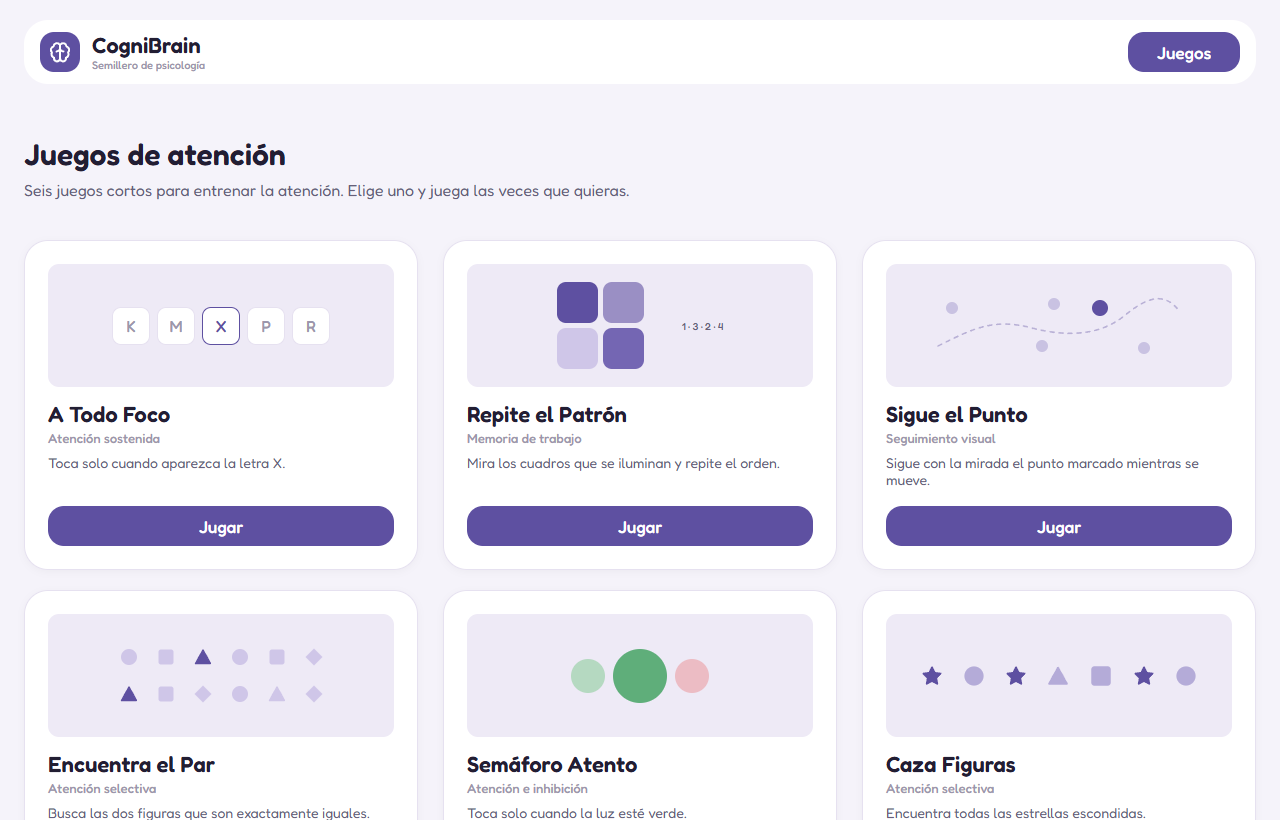
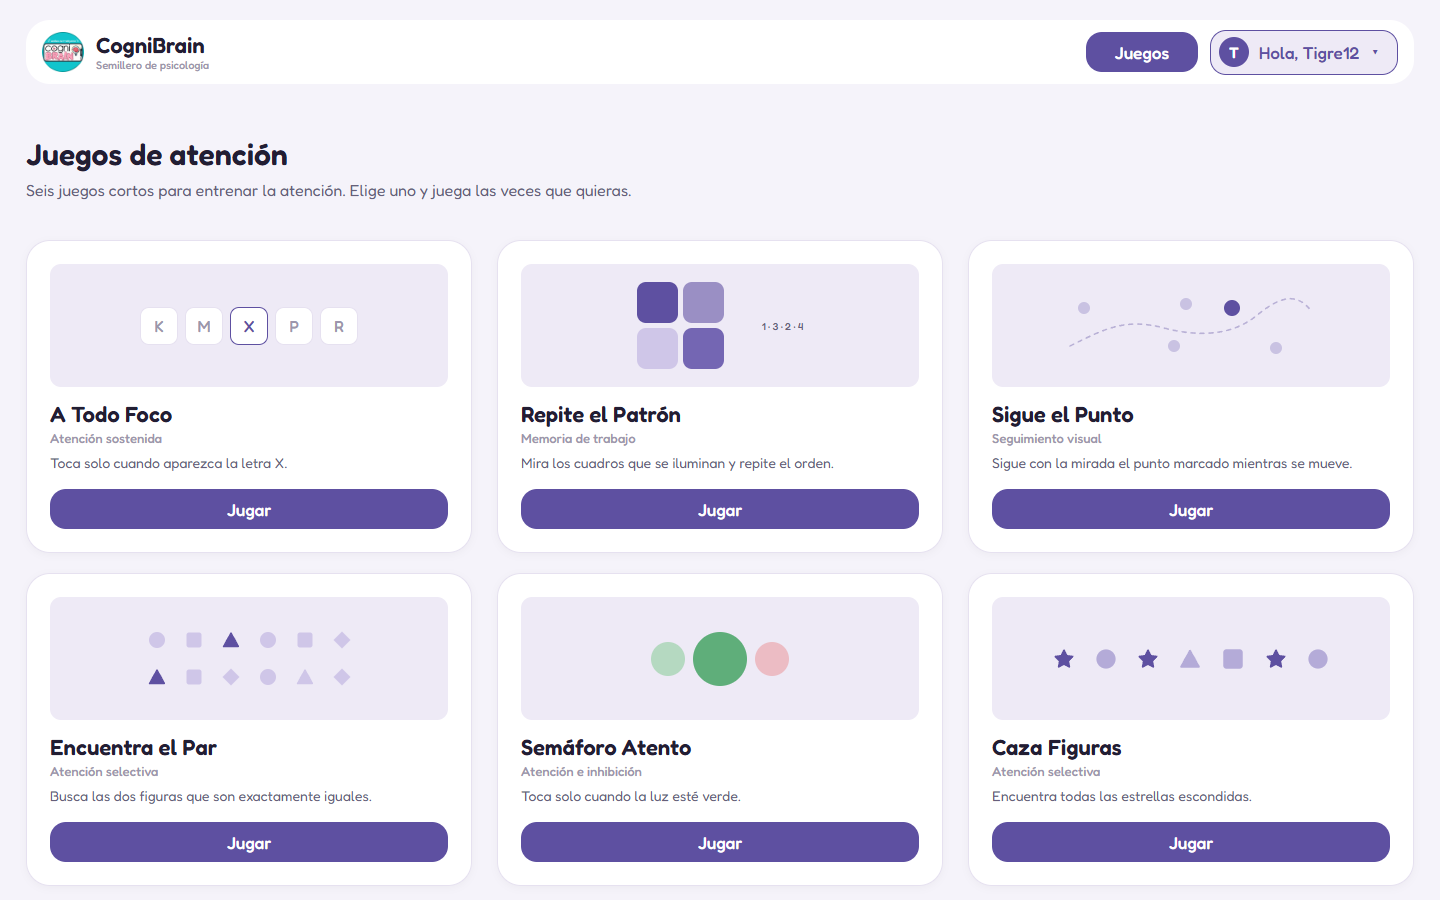
readme actualizado

diff --git a/README.md b/README.md
@@ -1,6 +1,6 @@
 <div align="center">
 
-<img src="public/pwa-192x192.png" alt="Logo de CogniBrain" width="96" />
+<img src="src/assets/logo-semillero-circle.png" alt="Logo del semillero CogniBrain" width="128" />
 
 # CogniBrain
 
@@ -17,17 +17,20 @@ https://cognibrain.vercel.app
 
 CogniBrain es una página web con seis juegos breves que ejercitan distintas formas de atención y memoria. Cada partida dura unos pocos minutos y termina con una pantalla de resultados: aciertos, errores y tiempos de reacción.
 
-No hace falta crear una cuenta ni instalar nada: se abre [cognibrain.vercel.app](https://cognibrain.vercel.app) y se juega.
+No hace falta crear una cuenta, poner contraseña ni instalar nada: se abre [cognibrain.vercel.app](https://cognibrain.vercel.app), se escribe un apodo o código y se juega.
+
+![Pantalla de ingreso de CogniBrain](docs/captura-ingreso.png)
 
 ## Características
 
+- **Perfiles sin contraseña:** cada participante entra con un apodo o código y ve solo sus propios resultados. Varias personas pueden usar el mismo dispositivo.
 - **Seis juegos de atención**, cada uno enfocado en una habilidad distinta.
 - **Resultados al terminar** cada partida, con métricas claras y fáciles de leer.
-- **Historial en el dispositivo:** las partidas terminadas quedan guardadas en la sección "Mis resultados".
+- **Historial por perfil:** las partidas terminadas quedan guardadas en "Mis resultados", separadas por participante.
 - **Descarga en CSV** del historial, lista para abrir en Excel u hojas de cálculo.
 - **Funciona sin internet** después de la primera visita.
 - **Se puede instalar como app** en el computador o el celular.
-- **Privada por diseño:** no pide nombre, correo ni ningún dato personal.
+- **Privada por diseño:** solo pide un apodo o código; no pide nombre completo, correo, contraseña ni ningún otro dato personal.
 - **Adaptada a computador, tablet y celular**, con soporte para teclado y movimiento reducido.
 
 ## Los juegos
@@ -41,12 +44,20 @@ No hace falta crear una cuenta ni instalar nada: se abre [cognibrain.vercel.app]
 | **Semáforo Atento** | Atención e inhibición | Se toca cuando la luz está verde y se espera cuando está roja. | verdes que tocaste, verdes que se escaparon, rojas que tocaste, tiempo de reacción |
 | **Caza Figuras** | Atención selectiva | En un tablero de figuras hay que encontrar las doce estrellas escondidas. | estrellas encontradas, estrellas sin encontrar, figuras equivocadas, tiempo total |
 
+## Perfiles de participante
+
+- Al abrir la página se elige un perfil guardado o se crea uno nuevo con un **apodo o código de 2 a 20 caracteres** (por ejemplo, `Tigre12`). No se repiten nombres, sin importar mayúsculas.
+- **Jugar sin perfil** permite entrar sin identificarse; esas partidas se guardan sin participante.
+- En el encabezado aparece **"Hola, apodo"** con un menú para **cambiar de perfil**, **cerrar sesión** o **borrar el perfil** (con confirmación; también borra sus partidas).
+- No es un inicio de sesión seguro: cualquiera que use el mismo navegador puede entrar a cualquier perfil. Sirve para separar los resultados de cada participante, no para proteger datos.
+
 ## Privacidad y resultados
 
-- Los resultados se guardan **solo en el navegador del dispositivo** donde se jugó (con `localStorage`). No se envían a ningún servidor.
-- Se conservan las últimas 100 partidas. Se pueden borrar en cualquier momento con **Borrar historial**.
-- Con **Descargar CSV** se obtiene un archivo con una fila por métrica y las columnas `Fecha`, `Hora`, `Juego`, `Métrica`, `Valor`, `Total` y `Unidad`.
-- Cada navegador y cada dispositivo tiene su propio historial.
+- Los perfiles y los resultados se guardan **solo en el navegador del dispositivo** donde se jugó (con `localStorage`). No se envían a ningún servidor.
+- **Mis resultados** muestra solo las partidas del perfil activo, de 10 en 10.
+- Se conservan las últimas 100 partidas de cada perfil. **Borrar historial** borra solo las del perfil activo.
+- Con **Descargar CSV** se obtiene un archivo del perfil activo con una fila por métrica y las columnas `Participante`, `Fecha`, `Hora`, `Juego`, `Métrica`, `Valor`, `Total` y `Unidad`.
+- Cada navegador y cada dispositivo tiene sus propios perfiles e historial.
 
 ## Instalar como app
 
@@ -92,13 +103,16 @@ Se abre una copia local en http://localhost:5173, que solo funciona en ese compu
 
 ```
 src/
-  App.jsx          pantalla de inicio y navegación entre pantallas
+  App.jsx          ingreso, pantalla de inicio y navegación entre pantallas
   main.jsx         punto de entrada
   games/           un archivo por juego y el catálogo (index.jsx)
-  components/      encabezado, instrucciones, resultados, historial y aviso de actualización
+  components/      ingreso, encabezado con menú de perfil, instrucciones, resultados, historial y avisos
+  assets/          logo del semillero e íconos
+  profiles.js      perfiles de participante en el navegador
   storage.js       historial de resultados en el navegador
   csv.js           exportación del historial a CSV
   pwa.js           registro del service worker
   styles.css       estilos y colores
-public/            íconos de la app
+public/            favicon e íconos de la app
+docs/              capturas de pantalla
 ```
